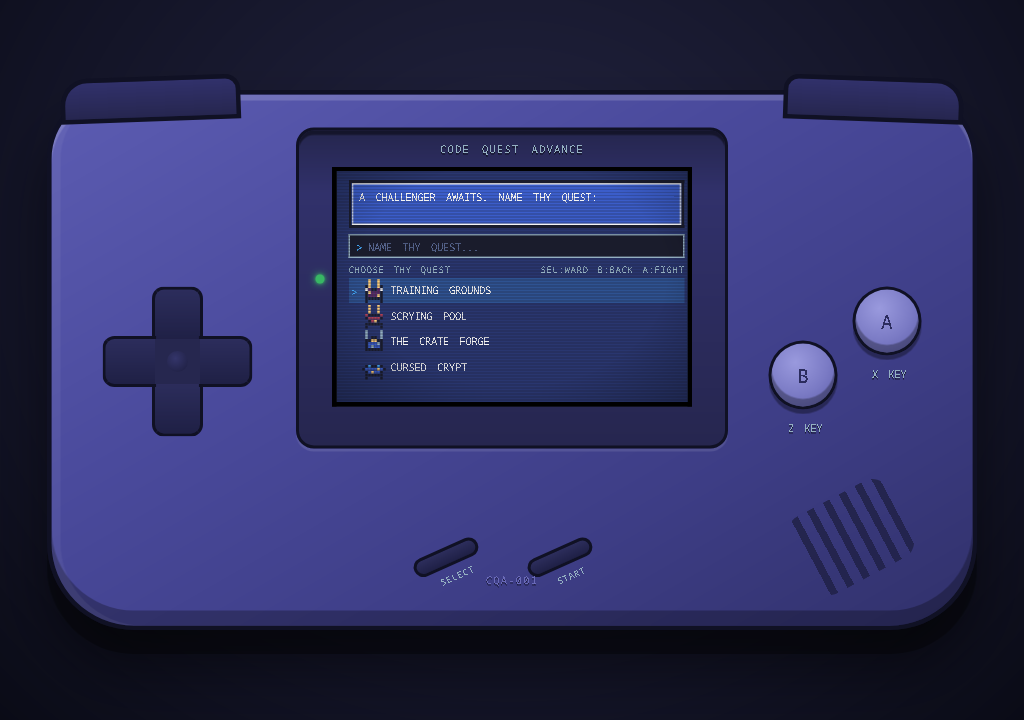
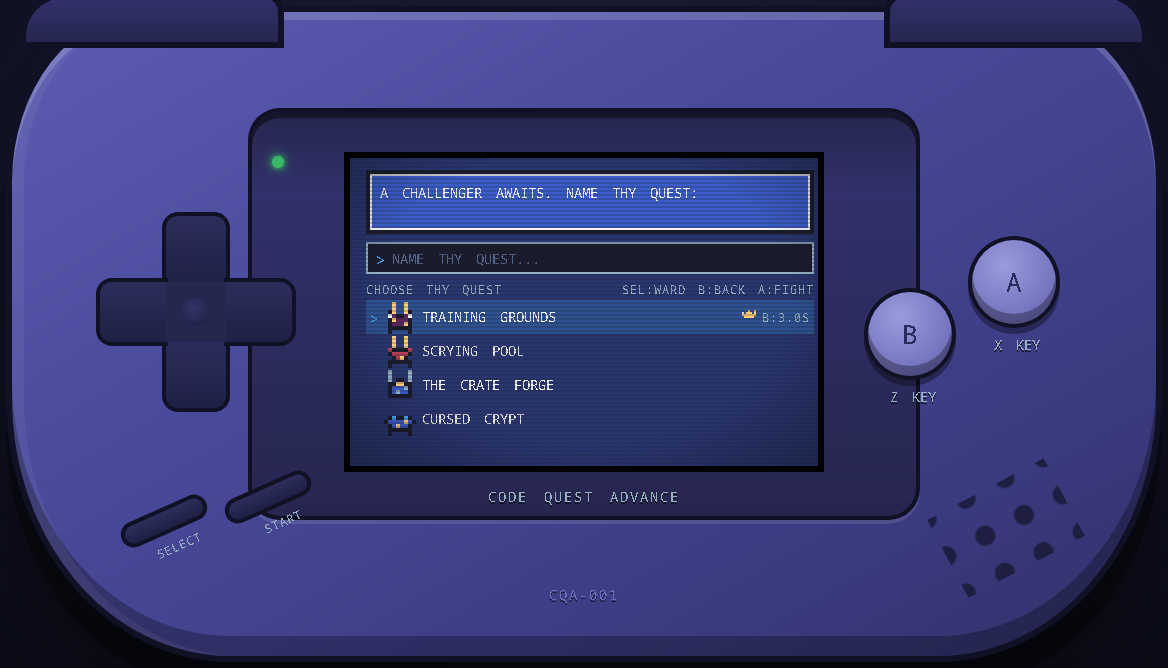
Remap shell to true AGB-001 proportions (4px/mm)
Body is now 578x328px = 144.5x82mm at 4px/mm (1.762:1), and the
240x160 screen maps exactly to the real 60x40mm active area, centered
in an 84x51.5mm lens. Real face layout: D-pad on the left wing at
screen height, A/B diagonal on the right wing, SELECT/START angled
under the D-pad (SELECT lower-left, START upper-right), six-hole
slanted speaker bottom-right, L/R shoulder tabs on the top edge.
Window is 1168x668 = exactly 2x the body, so the default view renders
at a crisp integer scale. Screenshots regenerated; verified in Xvfb.

diff --git a/src/styles.css b/src/styles.css
@@ -50,14 +50,16 @@ html, body {
 
 /* ============================ THE SHELL ============================ */
 
+/* True AGB-001 mapping at 4px/mm: body 144.5x82mm -> 578x328px,
+   screen active area 60x40mm -> the 240x160 canvas exactly. */
 #shell {
   position: relative;
-  width: 620px;
-  height: 360px;
+  width: 578px;
+  height: 328px;
   flex: none;
   background: linear-gradient(150deg, #5c5cb2 0%, var(--indigo) 38%, #3d3d85 72%, var(--indigo-sh) 100%);
   border: 3px solid #101124;
-  border-radius: 46px 46px 58px 58px;
+  border-radius: 70px 70px 112px 112px / 88px 88px 132px 132px;
   box-shadow:
     inset 0 4px 0 rgba(255,255,255,.16),
     inset 6px 0 0 rgba(255,255,255,.05),
@@ -74,32 +76,33 @@ html, body {
 
 .shoulder {
   position: absolute;
-  top: -12px;
-  width: 120px;
-  height: 30px;
+  top: -10px;
+  width: 132px;
+  height: 28px;
   background: linear-gradient(var(--indigo-sh), #26264f);
   border: 3px solid #101124;
   z-index: -1;
 }
-.shoulder-l { left: 6px; border-radius: 18px 10px 0 0; transform: rotate(-2deg); }
-.shoulder-r { right: 6px; border-radius: 10px 18px 0 0; transform: rotate(2deg); }
+.shoulder-l { left: 4px; border-radius: 22px 10px 0 0; }
+.shoulder-r { right: 4px; border-radius: 10px 22px 0 0; }
 
 /* screen bezel */
 #bezel {
+  /* lens glass ~84x51.5mm, screen slightly above face center like the real unit */
   position: absolute;
   left: 50%;
-  top: 22px;
+  top: 48px;
   transform: translateX(-50%);
-  width: 288px;
-  height: 214px;
+  width: 336px;
+  height: 206px;
   background: linear-gradient(#25264e, var(--indigo-sh) 20%, #26264f);
   border: 2px solid #101124;
-  border-radius: 12px;
+  border-radius: 16px;
   box-shadow: inset 0 3px 0 rgba(0,0,0,.45), 0 2px 0 rgba(255,255,255,.10);
 }
 .bezel-caption {
   position: absolute;
-  top: 8px;
+  bottom: 5px;
   width: 100%;
   text-align: center;
   font-size: 7px;
@@ -109,8 +112,8 @@ html, body {
 }
 .power-led {
   position: absolute;
-  left: 11px;
-  top: 96px;
+  left: 10px;
+  top: 22px;
   width: 6px;
   height: 6px;
   border-radius: 50%;
@@ -123,7 +126,7 @@ html, body {
 #screen {
   position: absolute;
   left: 50%;
-  top: 24px;
+  top: 20px;
   margin-left: -120px;
   width: 240px;
   height: 160px;
@@ -170,9 +173,10 @@ html, body {
 /* ============================ CONTROLS ============================ */
 
 #dpad {
+  /* center ~23mm from left edge, level with the screen like the real unit */
   position: absolute;
-  left: 34px;
-  top: 128px;
+  left: 42px;
+  top: 100px;
   width: 100px;
   height: 100px;
 }
@@ -218,8 +222,8 @@ html, body {
 }
 .ab span { font-size: 13px; color: #2b2c5e; pointer-events: none; }
 .ab.pressed { transform: translateY(2px); box-shadow: inset 0 -2px 0 rgba(0,0,0,.3); }
-#btn-a { right: 34px; top: 128px; }
-#btn-b { right: 90px; top: 164px; }
+#btn-a { right: 48px; top: 112px; }
+#btn-b { right: 100px; top: 138px; }
 .ab-label {
   position: absolute;
   font-size: 7px;
@@ -227,8 +231,8 @@ html, body {
   text-shadow: 0 1px 0 rgba(0,0,0,.6);
   pointer-events: none;
 }
-#lab-a { right: 44px; top: 182px; }
-#lab-b { right: 100px; top: 218px; }
+#lab-a { right: 58px; top: 162px; }
+#lab-b { right: 110px; top: 188px; }
 
 .pill {
   position: absolute;
@@ -250,20 +254,22 @@ html, body {
   color: var(--mist);
   pointer-events: none;
 }
-#btn-select { left: 240px; top: 302px; }
-#btn-start  { left: 316px; top: 302px; }
+/* under the D-pad, SELECT lower-left / START upper-right on the A-B diagonal */
+#btn-select { left: 53px; top: 248px; }
+#btn-start  { left: 105px; top: 236px; }
 
 .speaker {
+  /* six round holes in a slanted grid, bottom-right wing */
   position: absolute;
-  right: 44px;
-  bottom: 30px;
-  width: 74px;
-  height: 58px;
+  right: 42px;
+  bottom: 42px;
+  width: 66px;
+  height: 44px;
   transform: rotate(-28deg);
-  border-radius: 12px;
-  background: repeating-linear-gradient(90deg,
-    transparent 0 7px, #22234a 7px 12px);
-  opacity: .9;
+  background-image: radial-gradient(circle, #1c1d3e 4.5px, transparent 5.5px);
+  background-size: 22px 21px;
+  background-position: 11px 10px;
+  opacity: .95;
 }
 .shell-tag {
   position: absolute;

diff --git a/src/main.js b/src/main.js
@@ -308,7 +308,7 @@
 
   // ---------------------------------------------------------- scale-to-fit shell
   function fit() {
-    const s = Math.min(window.innerWidth / 650, window.innerHeight / 410);
+    const s = Math.min(window.innerWidth / 584, window.innerHeight / 334);
     const snapped = s >= 1 ? Math.floor(s * 2) / 2 : Math.max(0.35, s); // half-integer steps, integer look
     shellEl.style.transform = `scale(${snapped})`;
   }
